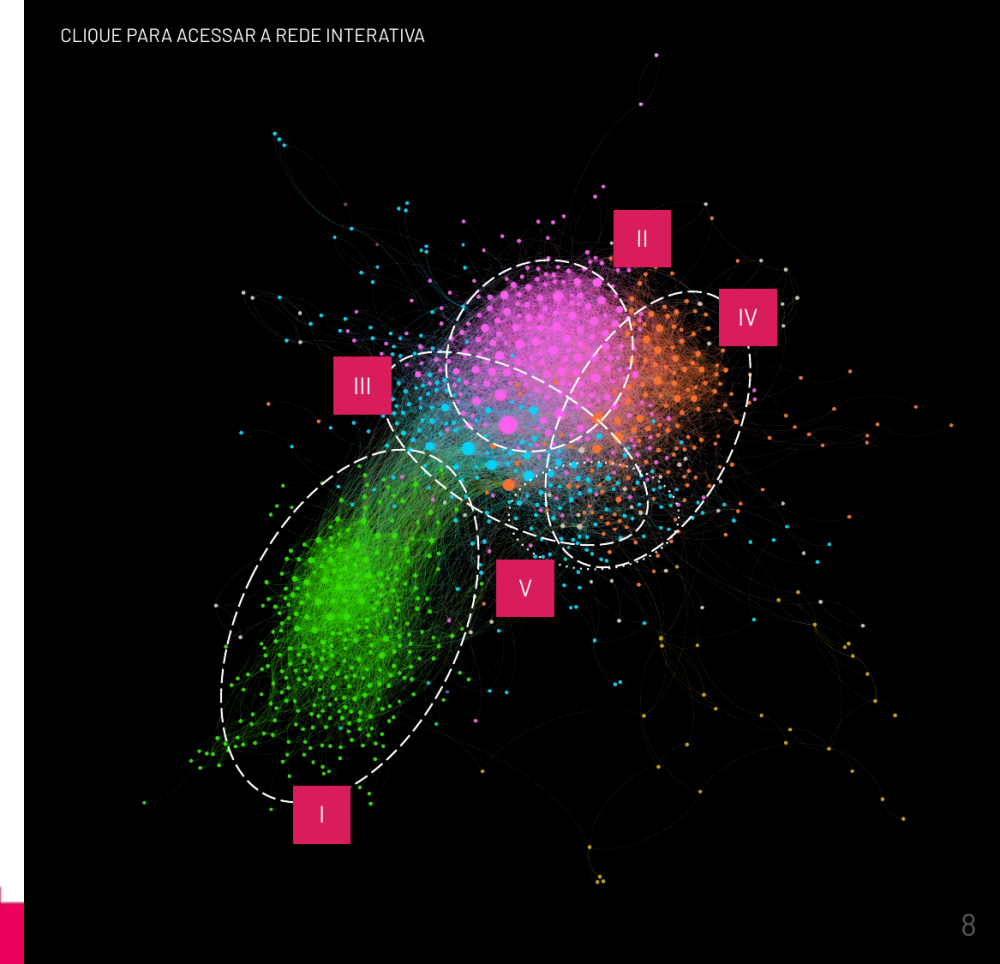
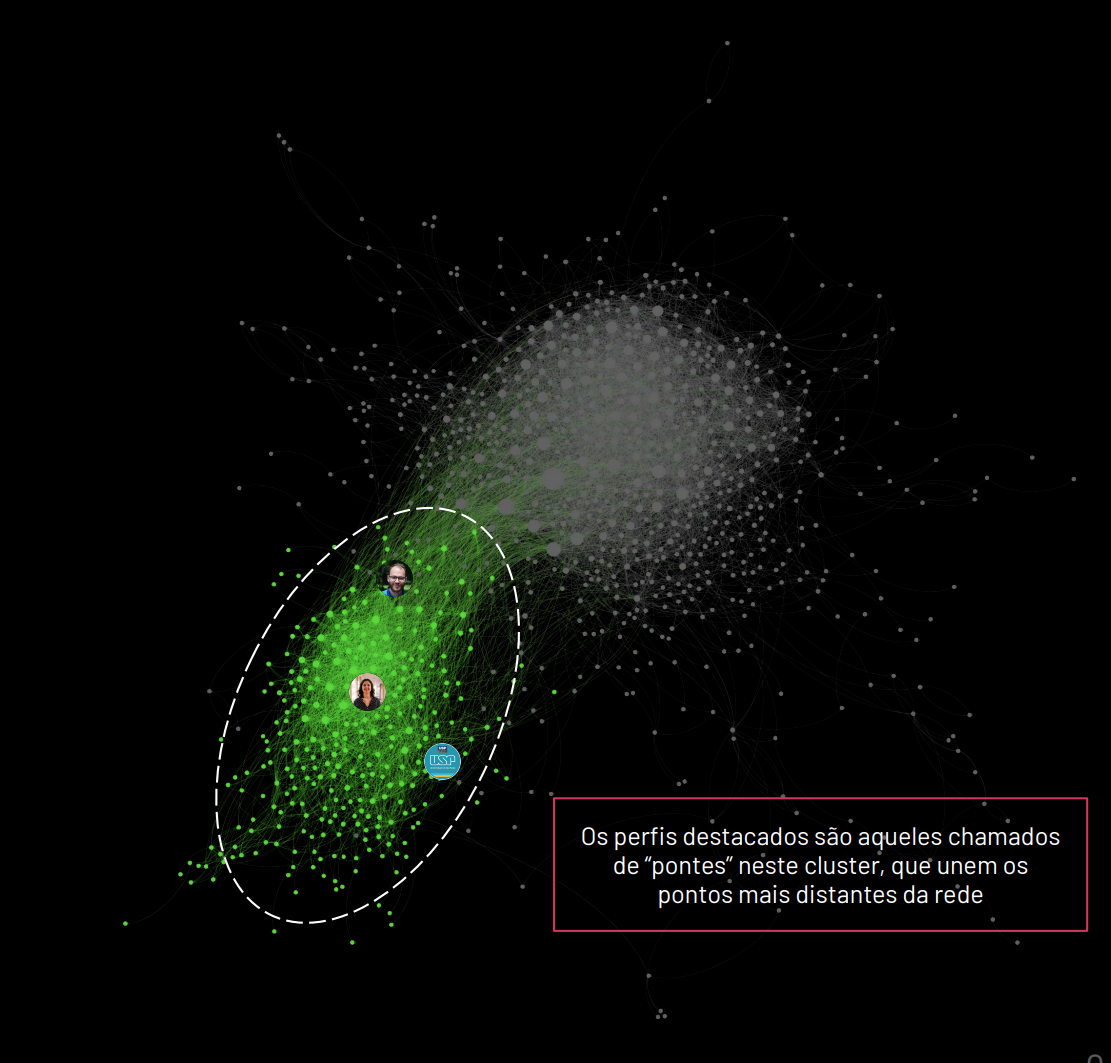
improving impact covid page

diff --git a/content/project-impact/covid19_pandemic/index.md b/content/project-impact/covid19_pandemic/index.md
@@ -30,7 +30,7 @@ Brazil recorded one of the highest COVID-19 death tolls in the world. Its health
 
 ### 🔬 Otavio's Contribution
 
-- **Hospital burden:** Co-led the first nationwide analysis of COVID-19 hospital admissions in Brazil (254,288 patients, February–August 2020), with openly released [analysis code](https://github.com/oranzani/Ranzani_Bastos_etal_LRM_COVID19Brazil), followed by a comparison of the first and second waves and an analysis of spatial and temporal fluctuations in hospital fatality.
+- **Hospital burden:** Led the first nationwide analysis of COVID-19 hospital admissions in Brazil (254,288 patients, February-August 2020), using official public data with openly released [analysis code](https://github.com/oranzani/Ranzani_Bastos_etal_LRM_COVID19Brazil), followed by a comparison of the first and second waves and an analysis of spatial and temporal fluctuations in hospital fatality.
 - **Vaccine effectiveness:** First author of real-world effectiveness studies within the VEBRA COVID-19 consortium, including CoronaVac in older adults and Ad26.COV2.S (Janssen). The full vaccine story is described in our [Vaccine Impact profile](/project-impact/vaccines/).
 - **Public epidemiology:** Explained epidemiological evidence, methods and uncertainty on Twitter/X ([@otavio_ranzani](https://x.com/otavio_ranzani)), in op-eds, interviews and webinars, and created **CORONAvito**, an educational comic explaining how infection and disease unfold over time ([thread, May 2020](https://threadreaderapp.com/thread/1261094738712813569.html)).
 - **Trial standards:** Panel member of the international consensus defining core outcome measures for COVID-19 trials (respiratory failure, multiorgan failure, shortness of breath and recovery), published in *[Critical Care Medicine](https://doi.org/10.1097/CCM.0000000000004817)* (2021).
@@ -65,13 +65,13 @@ Brazil recorded one of the highest COVID-19 death tolls in the world. Its health
   <div class="ctl-year">
     <div class="ctl-y">2020</div>
     <div class="ctl-events">
-      <div class="ctl-ev" style="--c:#2a5c99"><div class="ctl-card"><b>19 – 21 Mar 2020</b>Co-authors NOIS/PUC-Rio Technical Notes 3 and 4: how quickly containment measures worked abroad, and early case projections for Brazil</div></div>
-      <div class="ctl-ev" style="--c:#2e9e6b"><div class="ctl-card"><b>25 Mar 2020</b><i>Jornal da USP</i> quotes him as an author: containment takes 8–11 days to show effect, so it should start early to relieve hospitals</div></div>
-      <div class="ctl-ev" style="--c:#2a5c99"><div class="ctl-card"><b>1 – 3 Apr 2020</b>Technical Notes 5 and 6 check the accuracy of earlier projections and project ~41,000 cases by 20 April (reported by Estadão / Exame)</div></div>
-      <div class="ctl-ev" style="--c:#2e9e6b"><div class="ctl-card"><b>May – Aug 2020</b>Explains epidemic curves, data and methods in Twitter threads; his audience grows from ~3,000 (May) to ~12,300 followers (Aug)</div></div>
+      <div class="ctl-ev" style="--c:#2a5c99"><div class="ctl-card"><b>19 - 21 Mar 2020</b>Co-authors NOIS/PUC-Rio Technical Notes 3 and 4: how quickly containment measures worked abroad, and early case projections for Brazil</div></div>
+      <div class="ctl-ev" style="--c:#2e9e6b"><div class="ctl-card"><b>25 Mar 2020</b><i>Jornal da USP</i> quotes him as an author: containment takes 8-11 days to show effect, so it should start early to relieve hospitals</div></div>
+      <div class="ctl-ev" style="--c:#2a5c99"><div class="ctl-card"><b>1 - 3 Apr 2020</b>Technical Notes 5 and 6 check the accuracy of earlier projections and project ~41,000 cases by 20 April (reported by Estadão / Exame)</div></div>
+      <div class="ctl-ev" style="--c:#2e9e6b"><div class="ctl-card"><b>May - Aug 2020</b>Explains epidemic curves, data and methods in Twitter threads; his audience grows from ~3,000 (May) to ~12,300 followers (Aug)</div></div>
       <div class="ctl-ev" style="--c:#2e9e6b"><div class="ctl-card"><b>May 2020</b>Aos Fatos fact-check uses his expertise to rebut claims that Brazil's epidemic was mild; creates the CORONAvito comic</div></div>
       <div class="ctl-ev" style="--c:#c89520"><div class="ctl-card"><b>Jun 2020</b>His excess-mortality analysis is used as evidence in a Supreme Court petition (ADPF 690); the Court orders full daily COVID-19 data to be published again</div></div>
-      <div class="ctl-ev" style="--c:#2e9e6b"><div class="ctl-card"><b>Jul – Aug 2020</b>Herd-immunity op-ed (Agência Bori); two further Aos Fatos fact-checks draw on his explanations</div></div>
+      <div class="ctl-ev" style="--c:#2e9e6b"><div class="ctl-card"><b>Jul - Aug 2020</b>Herd-immunity op-ed (Agência Bori); two further Aos Fatos fact-checks draw on his explanations</div></div>
       <div class="ctl-ev" style="--c:#2e9e6b"><div class="ctl-card"><b>Dec 2020</b>Science Pulse / IBPAD network analysis ranks him 2nd for authority among Brazilian COVID-19 science voices</div></div>
     </div>
   </div>
@@ -120,23 +120,27 @@ Brazil recorded one of the highest COVID-19 death tolls in the world. Its health
 
 **Wider policy uptake**
 
-- The COVID-19 studies were also cited by the **European Medicines Agency and ECDC** ([joint statement on a fourth vaccine dose](https://www.ema.europa.eu/en/documents/public-statement/covid-19-joint-statement-ecdc-and-ema-administration-fourth-dose-mrna-vaccines_en.pdf), 2022), **WHO** [guidance on evaluating vaccine effectiveness](https://iris.who.int/handle/10665/363344) (2022) and its weekly epidemiological updates, **Africa CDC** scientific and public health policy updates (2021–2022), the **World Bank** ([2022](https://openknowledge.worldbank.org/handle/10986/37626), [2023](https://openknowledge.worldbank.org/handle/10986/39778)), the **Inter-American Development Bank** ([2025](https://doi.org/10.18235/0013757)), the Dutch **RIVM** ([2024](https://www.rivm.nl/publicaties/luchtkwaliteit-en-covid-19)) and **CONASS** ([2025](https://www.conass.org.br/biblioteca/cd49-lacen-covid19/)).
+- The COVID-19 studies were also cited by the **European Medicines Agency and ECDC** ([joint statement on a fourth vaccine dose](https://www.ema.europa.eu/en/documents/public-statement/covid-19-joint-statement-ecdc-and-ema-administration-fourth-dose-mrna-vaccines_en.pdf), 2022), **WHO** [guidance on evaluating vaccine effectiveness](https://iris.who.int/handle/10665/363344) (2022) and its weekly epidemiological updates, **Africa CDC** scientific and public health policy updates (2021-2022), the **World Bank** ([2022](https://openknowledge.worldbank.org/handle/10986/37626), [2023](https://openknowledge.worldbank.org/handle/10986/39778)), the **Inter-American Development Bank** ([2025](https://doi.org/10.18235/0013757)), the Dutch **RIVM** ([2024](https://www.rivm.nl/publicaties/luchtkwaliteit-en-covid-19)) and **CONASS** ([2025](https://www.conass.org.br/biblioteca/cd49-lacen-covid19/)).
 
 ---
 
 ### 📣 Reach and Engagement
 
 - Independent network analyses of the Brazilian COVID-19 conversation on Twitter by Science Pulse and [IBPAD](https://ibpad.com.br/) placed Otavio among the most influential scientists:
-  - **2020** (213,469 tweets from 1,200 profiles, June–October): **3rd** most influential among Brazilian researchers and institutions, **2nd for authority** (centrality in spreading information) and **3rd for articulation** (bridging between groups) ([report](https://www.ibpad.com.br/wp-content/uploads/2020/12/relatorio_vozesdacienciacovid_ibpad2020.pdf)).
-  - **2021** (450,906 tweets from 1,088 profiles, November 2020–November 2021): among the 15 most influential profiles, **4th for authority** and **7th for articulation** ([Núcleo](https://nucleo.jor.br/reportagem/2021-12-16-2021-colaboracao-cientifica-covid-twitter/)).
-  - In these analyses, *authority* identifies the profiles most central to the spread of information in the network, and therefore the most respected or prestigious sources. *Articulation* identifies profiles that act as bridges between groups. *Popularity* is simply the number of followers. The 2020 report noted that Otavio, "although not as popular, holds an important position in terms of authority and articulation in the network".
+  - **2020** (213,469 tweets from 1,200 profiles, June-October): **3rd** most influential among Brazilian researchers and institutions, **2nd for authority** (centrality in spreading information) and **3rd for articulation** (bridging between groups) ([report](https://www.ibpad.com.br/wp-content/uploads/2020/12/relatorio_vozesdacienciacovid_ibpad2020.pdf)).
+  - **2021** (450,906 tweets from 1,088 profiles, November 2020-November 2021): among the 15 most influential profiles, **4th for authority** and **7th for articulation** ([Núcleo](https://nucleo.jor.br/reportagem/2021-12-16-2021-colaboracao-cientifica-covid-twitter/)).
+  - In these analyses, *authority* identifies the profiles most central to the spread of information in the network, and therefore the most respected or prestigious sources. *Articulation* identifies profiles that act as bridges between groups. *Popularity* is simply the number of followers. The 2020 report noted that Otavio, "although not as popular [*by number of followers*], holds an important position in terms of authority and articulation in the network".
   - The 2020 ranking was presented at a [WHO EPI-WIN session](https://cdn.who.int/media/docs/default-source/epi-win/5_when-social-media-shapes-the-public-discourse_a-iamarino.pdf) on science communication during the pandemic (2021).
-  - A later academic study of these five leading voices described Otavio's communication as more technical than that of science communicators, consistent with his role as a specialist epidemiologist explaining data, methods and emerging evidence rather than a general-audience influencer ([*Animus*, 2023](https://doi.org/10.5902/2175497768910)).
+  - A later academic study of these five leading voices described Otavio's communication as more technical than that of general science communicators, consistent with his role as a specialist epidemiologist explaining data, methods and emerging evidence rather than a general-audience influencer ([*Animus*, 2023](https://doi.org/10.5902/2175497768910)).
 - An international study of COVID-19 vaccine communication on Twitter selected him as one of ten recognised health experts across five countries, as an expert voice for the Portuguese-speaking world ([*Media and Communication*, 2022](https://doi.org/10.17645/mac.v10i2.4955)).
 - His Twitter/X audience grew from about 3,000 followers (May 2020) to about 40,000 (May 2022).
+- In 2020, during COVID-19, Twitter verified Otavio's account as a notable expert voice. This was the platform's merit-based verification, which was replaced in April 2023 by paid subscription verification.
+- In December 2020, [Instituto Serrapilheira](https://serrapilheira.org/), a Brazilian science funder that supports Science Pulse, highlighted him as one of the three main Brazilian scientific influencers on COVID-19, alongside Atila Iamarino and Luiza Caires.
+
+{{< figure src="twitter_recognition.png" title="Left: Twitter/X legacy verification (April 2023), shortly before merit-based badges were removed. Right: Instituto Serrapilheira highlighting the top three Brazilian scientific influencers on COVID-19 in the 2020 Science Pulse analysis (December 2020)." lightbox="true" >}}
 - He spoke at public webinars, including those of FAPESP and Instituto Butantan, and Instituto Questão de Ciência, and was interviewed by national and international media.
 
-{{< figure src="sciencepulse_2020_network.png" title="Network of interactions among 1,200 scientists and experts discussing COVID-19 on Twitter, June–October 2020; group I = Brazilian researchers and institutions. Source: Science Pulse / IBPAD (2020)." lightbox="true" >}}
+{{< figure src="sciencepulse_2020_network.png" title="Network of interactions among 1,200 scientists, experts and organisations discussing COVID-19 on Twitter (June-October 2020): Brazilian cluster in green, international profiles in grey. The highlighted profiles (Otavio Ranzani, Luiza Caires and USP) are the network's ‘bridges’, connecting its most distant points; Otavio's node sits at the interface with the international cluster. Source: Science Pulse / IBPAD (2020)." lightbox="true" >}}
 
 {{< figure src="sciencepulse_2020_ranking.png" title="Rankings by popularity, authority and articulation among Brazilian researchers and institutions, 2020. Source: Science Pulse / IBPAD (2020); boxes added." lightbox="true" >}}
 
@@ -150,10 +154,10 @@ Brazil recorded one of the highest COVID-19 death tolls in the world. Its health
 
 📚 Selected References
 
-<strong>Ranzani OT*,</strong> Bastos LSL*, Gelli JGM, et al. (2021). *Characterisation of the first 250 000 hospital admissions for COVID-19 in Brazil: a retrospective analysis of nationwide data.* Lancet Respir Med. 9(4):407–418. doi: [10.1016/S2213-2600(20)30560-9](https://doi.org/10.1016/S2213-2600(20)30560-9).
+<strong>Ranzani OT*,</strong> Bastos LSL*, Gelli JGM, et al. (2021). *Characterisation of the first 250 000 hospital admissions for COVID-19 in Brazil: a retrospective analysis of nationwide data.* Lancet Respir Med. 9(4):407-418. doi: [10.1016/S2213-2600(20)30560-9](https://doi.org/10.1016/S2213-2600(20)30560-9).
 
-Bastos LSL, <strong>Ranzani OT,</strong> Souza TML, et al. (2021). *COVID-19 hospital admissions: Brazil's first and second waves compared.* Lancet Respir Med. 9(8):e82–e83. doi: [10.1016/S2213-2600(21)00287-3](https://doi.org/10.1016/S2213-2600(21)00287-3).
+Bastos LSL, <strong>Ranzani OT,</strong> Souza TML, et al. (2021). *COVID-19 hospital admissions: Brazil's first and second waves compared.* Lancet Respir Med. 9(8):e82-e83. doi: [10.1016/S2213-2600(21)00287-3](https://doi.org/10.1016/S2213-2600(21)00287-3).
 
-Brizzi A, Whittaker C, Servo LMS, et al. (2022). *Spatial and temporal fluctuations in COVID-19 fatality rates in Brazilian hospitals.* Nat Med. 28(7):1476–1485. doi: [10.1038/s41591-022-01807-1](https://doi.org/10.1038/s41591-022-01807-1).
+Brizzi A, Whittaker C, Servo LMS, et al. (2022). *Spatial and temporal fluctuations in COVID-19 fatality rates in Brazilian hospitals.* Nat Med. 28(7):1476-1485. doi: [10.1038/s41591-022-01807-1](https://doi.org/10.1038/s41591-022-01807-1).
 
 <strong>Ranzani OT*,</strong> Hitchings MDT*, Dorion M, et al. (2021). *Effectiveness of the CoronaVac vaccine in older adults during a gamma variant associated epidemic of covid-19 in Brazil: test negative case-control study.* BMJ. 374:n2015. doi: [10.1136/bmj.n2015](https://doi.org/10.1136/bmj.n2015).
